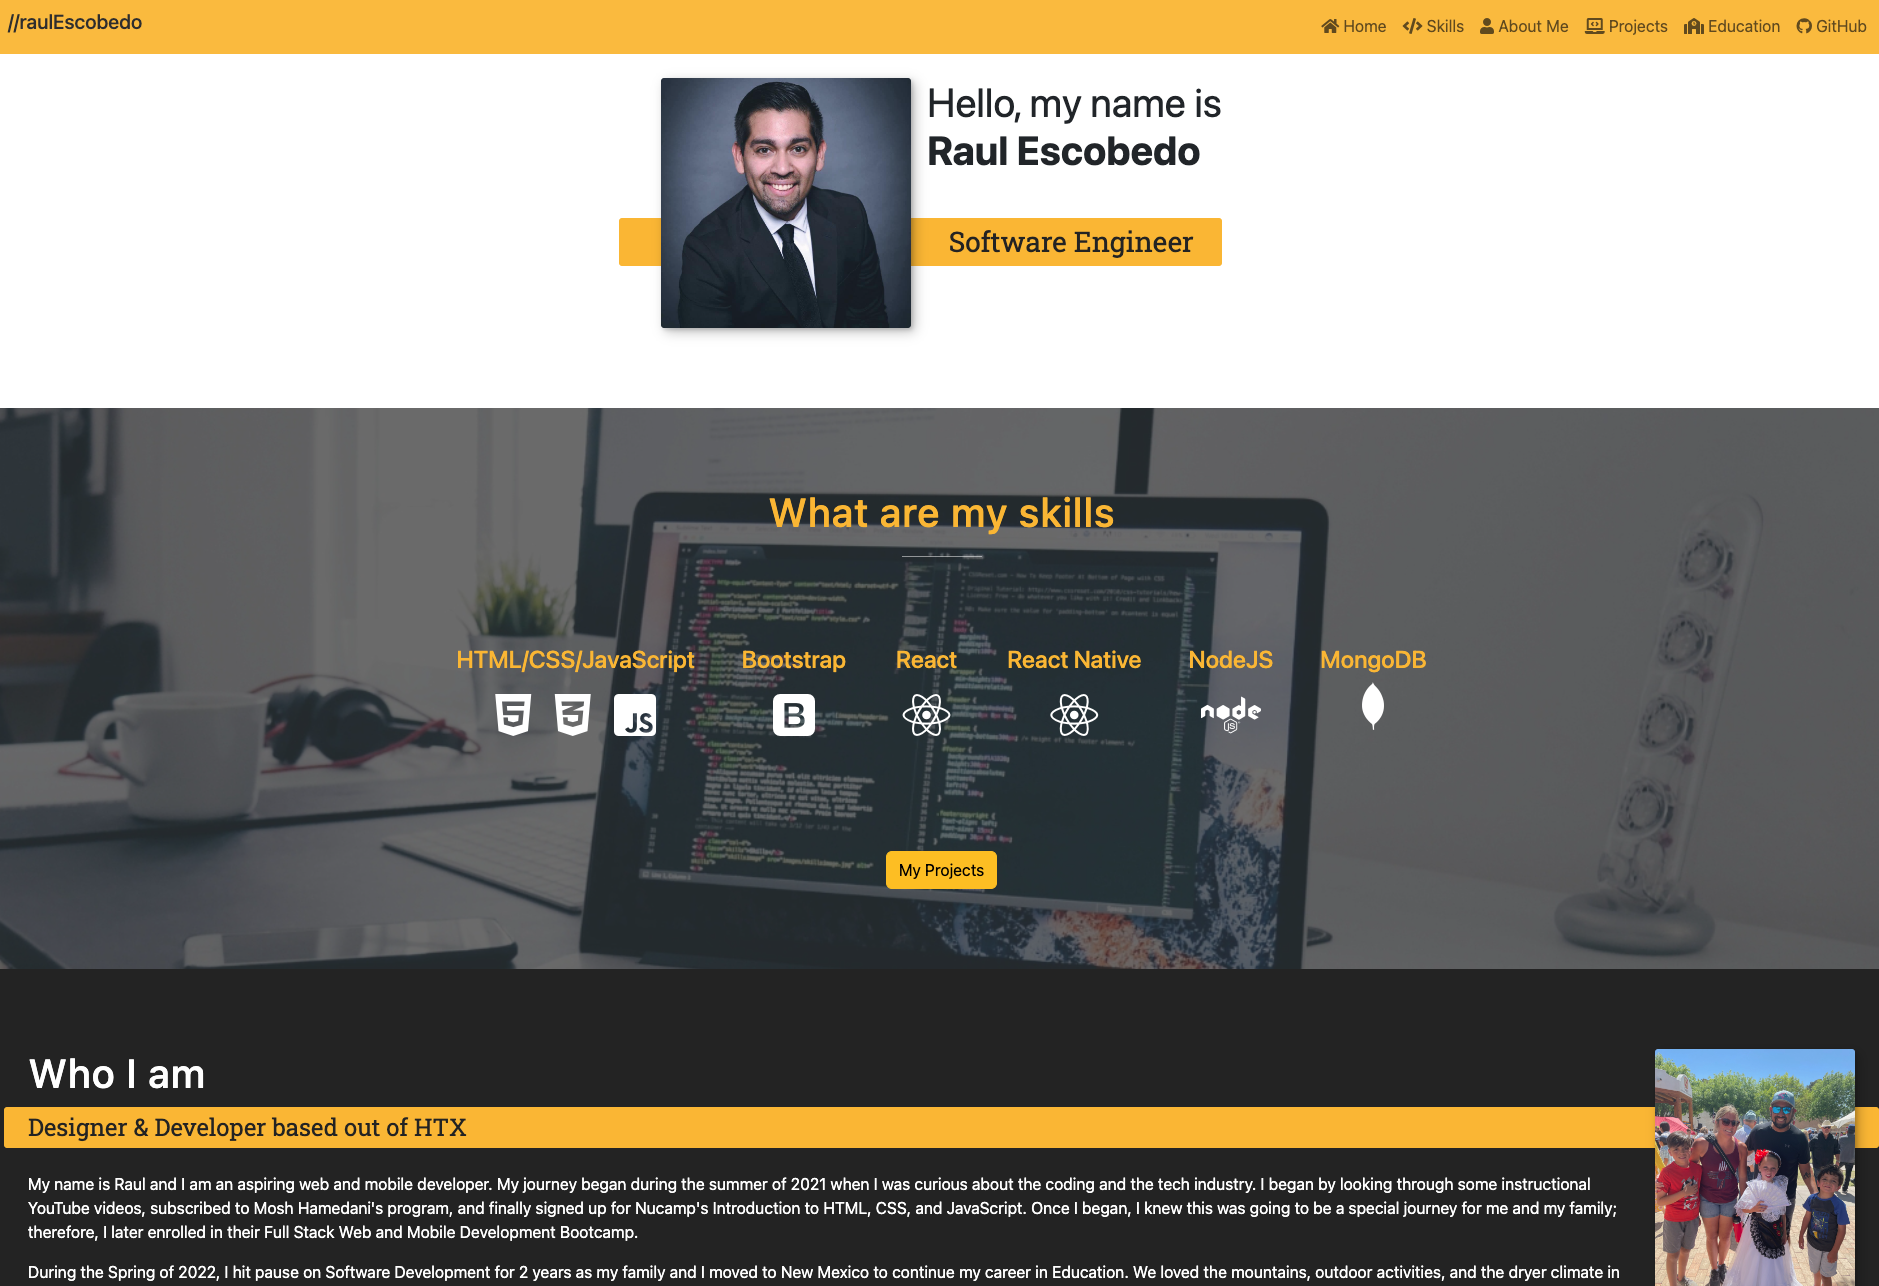
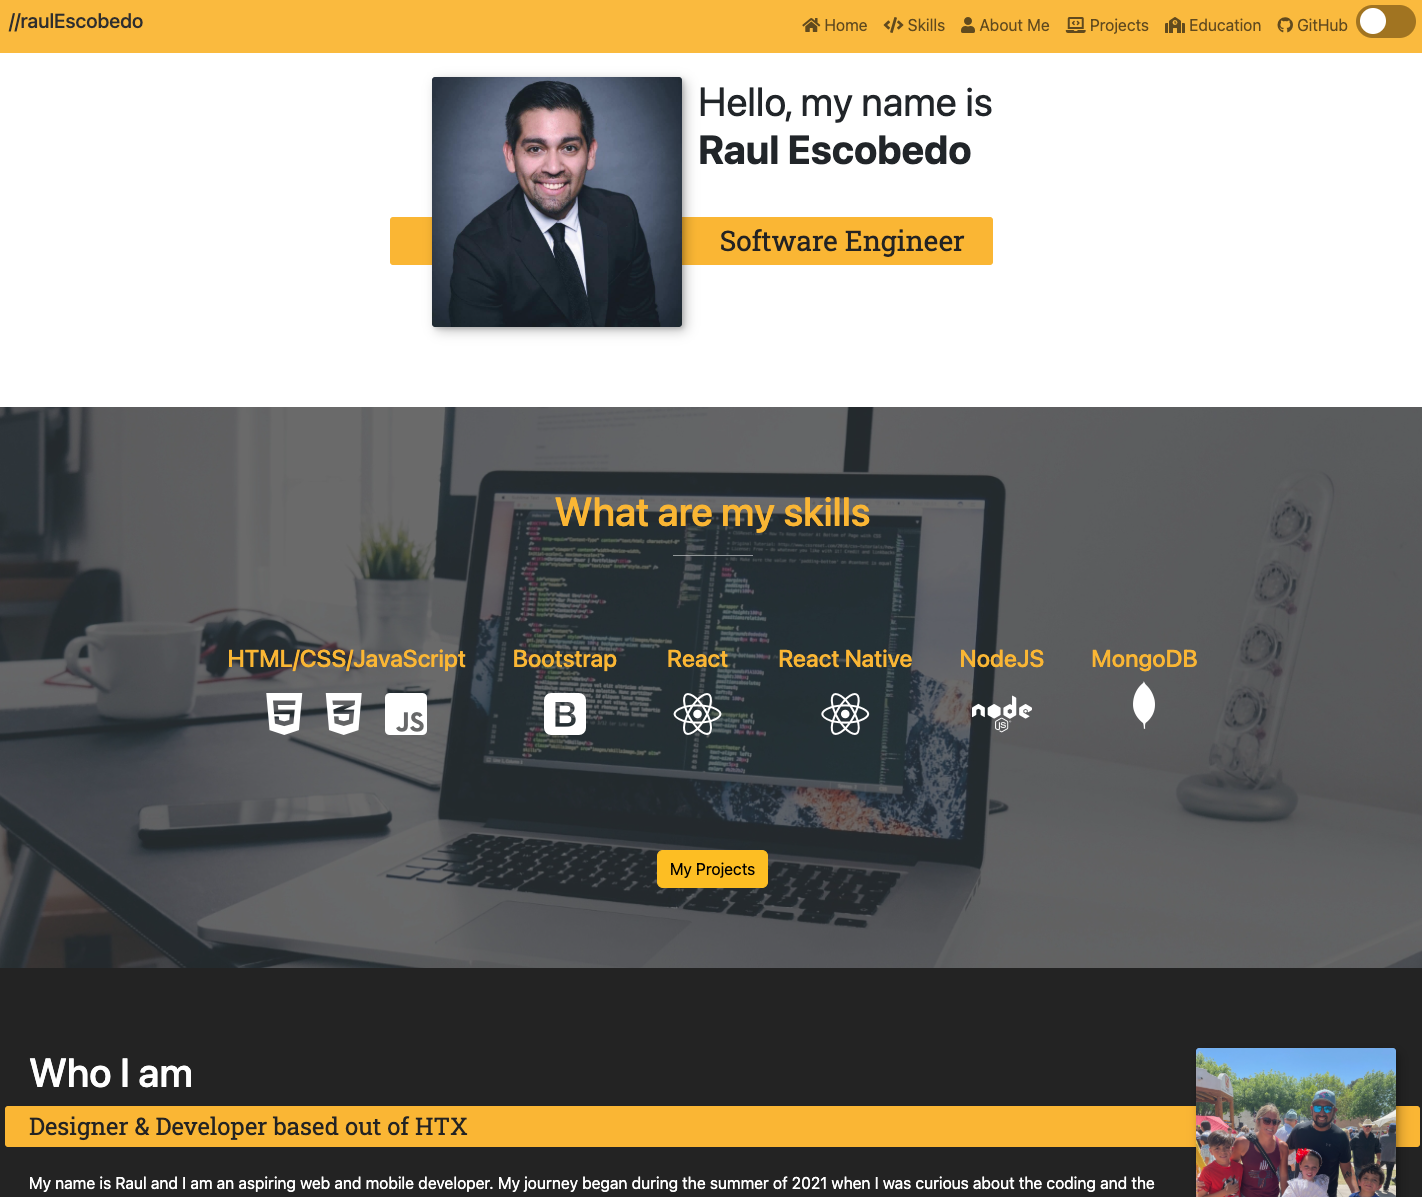
darkmode

diff --git a/css/style.css b/css/style.css
@@ -50,6 +50,62 @@ body {
     font-size: var(--fs-body);
     line-height: 1.6;
 }
+/* Dark Mode & Switch*/
+body.dark-mode {
+    background-color: var(--clr-dark);
+    color: #ffffff;
+}
+
+.my-work.dark-mode {
+    background-color: var(--clr-dark);
+    color: #ffffff;
+}
+
+.switch {
+    position: relative;
+    display: inline-block;
+    width: 60px;
+    height: 33px;
+}
+
+.switch input {
+    opacity: 0;
+    width: 0;
+    height: 0;
+}
+
+.slider {
+    position: absolute;
+    cursor: pointer;
+    top: 0;
+    left: 0;
+    right: 0;
+    bottom: 0;
+    background-color: var(--clr-hover-accent);
+    transition: 0.4s;
+    border-radius: 34px;
+}
+
+.slider:before {
+    position: absolute;
+    content: "";
+    height: 26px;
+    width: 26px;
+    border-radius: 50%;
+    left: 4px;
+    bottom: 4px;
+    background-color: white;
+    transition: 0.4s;
+}
+
+body.dark-mode .slider {
+    background-color: var(--clr-dark);
+}
+
+body.dark-mode .slider:before {
+    transform: translateX(26px);
+}
+
 
 section {
     padding: 5em 2em;
@@ -141,10 +197,6 @@ h5 { font-size: var(--fs-h5) }
     color: var(--clr-dark);
     font-weight: var(--fw-reg);
     margin-bottom: 2em;
-}
-
-.section_title--work {
-    color: var(--clr-dark);
 }
 
 /* Header */
@@ -317,10 +369,7 @@ h5 { font-size: var(--fs-h5) }
 
 /* My Work */
 .my-work {
-    background-color: var(--clr-light);
-    color: var(--clr-dark);
     text-align: center;
-
 }
 
 .my-work img {

diff --git a/myportfolio.html b/myportfolio.html
@@ -33,6 +33,12 @@
                             <li class="nav-item active"><a class="nav-link active" href="index.html#work"><i class="fas fa-laptop-code"></i> Projects</a></li>
                             <li class="nav-item"><a class="nav-link" href="index.html#education"><i class="fas fa-school"></i> Education</a></li>
                             <li class="nav-item"><a class="nav-link" href="https://github.com/rjescobedo" target="_blank"><i class="fab fa-github"></i> GitHub</a></li>
+                            <li class="nav-item">
+                                <label class="switch">
+                                    <input type="checkbox" id="dark-mode-toggle">
+                                    <span class="slider round"></span>
+                                </label>
+                             </li>
                         </ul>
                     </div>
                 </div>

diff --git a/email_challenge.html b/email_challenge.html
@@ -33,6 +33,12 @@
                         <li class="nav-item active"><a class="nav-link active" href="index.html#work"><i class="fas fa-laptop-code"></i> Projects</a></li>
                         <li class="nav-item"><a class="nav-link" href="index.html#education"><i class="fas fa-school"></i> Education</a></li>
                         <li class="nav-item"><a class="nav-link" href="https://github.com/rjescobedo" target="_blank"><i class="fab fa-github"></i> GitHub</a></li>
+                        <li class="nav-item">
+                            <label class="switch">
+                                <input type="checkbox" id="dark-mode-toggle">
+                                <span class="slider round"></span>
+                            </label>
+                         </li>
                     </ul>
                 </div>
             </div>

diff --git a/okb.html b/okb.html
@@ -33,6 +33,12 @@
                         <li class="nav-item active"><a class="nav-link active" href="index.html#work"><i class="fas fa-laptop-code"></i> Projects</a></li>
                         <li class="nav-item"><a class="nav-link" href="index.html#education"><i class="fas fa-school"></i> Education</a></li>
                         <li class="nav-item"><a class="nav-link" href="https://github.com/rjescobedo" target="_blank"><i class="fab fa-github"></i> GitHub</a></li>
+                        <li class="nav-item">
+                            <label class="switch">
+                                <input type="checkbox" id="dark-mode-toggle">
+                                <span class="slider round"></span>
+                            </label>
+                         </li>
                     </ul>
                 </div>
             </div>

diff --git a/thetrainer.html b/thetrainer.html
@@ -33,6 +33,12 @@
                         <li class="nav-item active"><a class="nav-link active" href="index.html#work"><i class="fas fa-laptop-code"></i> Projects</a></li>
                         <li class="nav-item"><a class="nav-link" href="index.html#education"><i class="fas fa-school"></i> Education</a></li>
                         <li class="nav-item"><a class="nav-link" href="https://github.com/rjescobedo" target="_blank"><i class="fab fa-github"></i> GitHub</a></li>
+                        <li class="nav-item">
+                            <label class="switch">
+                                <input type="checkbox" id="dark-mode-toggle">
+                                <span class="slider round"></span>
+                            </label>
+                         </li>
                     </ul>
                 </div>
             </div>

diff --git a/index.html b/index.html
@@ -35,6 +35,12 @@
                         </li>
                          <li class="nav-item"><a class="nav-link" href="#education"><i class="fas fa-school"></i> Education</a></li>
                          <li class="nav-item"><a class="nav-link" href="https://github.com/rjescobedo" target="_blank"><i class="fab fa-github"></i> GitHub</a></li>
+                         <li class="nav-item">
+                            <label class="switch">
+                                <input type="checkbox" id="dark-mode-toggle">
+                                <span class="slider round"></span>
+                            </label>
+                         </li>
                      </ul>
                  </div>
              </div>

diff --git a/js/scripts.js b/js/scripts.js
@@ -7,3 +7,11 @@ $(document).click(function (event) {
         $navbar.collapse('hide');
     }
 });
+
+//Dark mode
+const darkModeToggle = document.getElementById('dark-mode-toggle');
+
+darkModeToggle.addEventListener('click', () => {
+    document.body.classList.toggle('dark-mode');
+    darkModeToggle.classList.toggle('dark-mode');
+});
